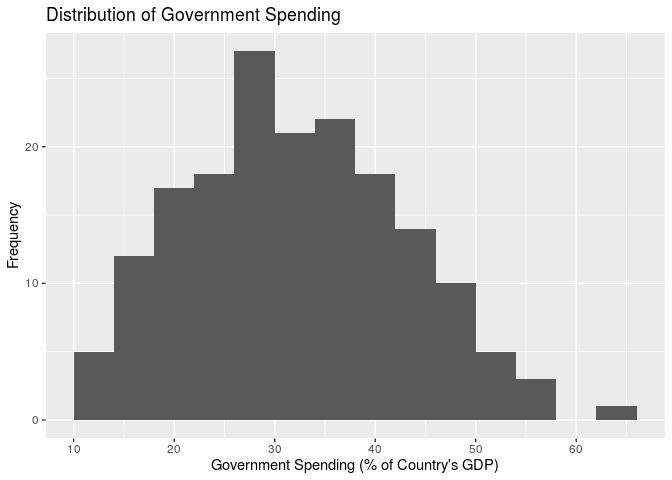
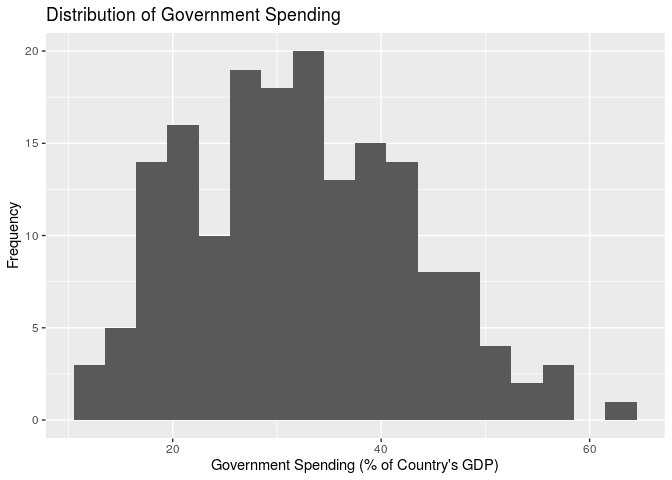
Finished EDA

diff --git a/01-proposal/proposal.md b/01-proposal/proposal.md
@@ -192,14 +192,16 @@ skim()
     ##      hist
     ##  ▂▅▇▆▅▅▂▂
 
-The distribution of tax burden is unimodal and only slightly right
-skewed. The mode is around 14-15%. In general, the tax burden across
-countries appear normally distributed. The mean tax burden is 22.19 and
-the standard deviation of the distribution is 10.17.
+`TaxBurden` represents the amount of tax paid by the citizens of a
+country as a proportion of the GDP of that country. The distribution of
+tax burden is unimodal and only slightly right skewed. The mode is
+around 14-15%. In general, the tax burden across countries appear
+normally distributed. The mean tax burden is 22.19 and the standard
+deviation of the distribution is 10.17.
 
 ``` r
 ggplot(data = economic_data, mapping = aes(x = GovSpending)) +
-  geom_histogram(binwidth = 4) + 
+  geom_histogram(binwidth = 3) + 
   labs(x = "Government Spending (% of Country's GDP)",
        y = "Frequency",
        title = "Distribution of Government Spending")
@@ -223,13 +225,15 @@ skim()
     ##      hist
     ##  ▂▇▇▇▇▃▁▁
 
-The distribution of government spending is generally symmmetric and
-unimodal. There are several outliers which have significantly higher
-government spending: with government spending either equal to or more
-than 100% of the country’s GDP. The mode of the distribution is around
-25%. Since there is minimal skewing, we report the mean and standard
-deviation. The mean government spending is 33.87 and the distribution
-has a standard deviation of 15.52.
+`GovSpending` represents the amount spent by the government as a
+percentage of the GDP of the country. The distribution of government
+spending is generally symmmetric and unimodal. There are several
+outliers which have significantly higher government spending: with
+government spending either equal to or more than 100% of the country’s
+GDP. The mode of the distribution is around 25%. Since there is minimal
+skewing, we report the mean and standard deviation. The mean government
+spending is 33.87 and the distribution has a standard deviation of
+15.52.
 
 ``` r
 ggplot(data = economic_data, mapping = aes(x = Population)) +
@@ -257,7 +261,8 @@ skim()
     ##      hist
     ##  ▇▁▁▁▁▁▁▁
 
-The distribution of population is unimodal and right-skewed.Because
+`Population` represents the number of individuals living in a country.
+The distribution of population is unimodal and right-skewed. Because
 there are two extreme outliers in population, we will plot another graph
 of population without these two outliers
 below.
@@ -293,7 +298,9 @@ skim()
 The distribution of population is unimodal and right-skewed. The mode of
 the distribution is around 1 million. Since the median and IQR are more
 robust to skewing, we report them instead as a measures of center and
-spread. The median is 9.15 and the IQR is 26.85.
+spread. The median is 9.15 and the IQR is 26.85. Additionally, when
+conducting our analysis, we may need to apply a log-transform to make
+the distribution of the variable more normal.
 
 ``` r
 ggplot(data = economic_data, mapping = aes(x = Unemployment)) +
@@ -319,10 +326,12 @@ skim()
     ##      variable missing complete   n mean   sd  p0 p25 p50 p75 p100     hist
     ##  Unemployment       0      173 173 7.27 5.67 0.1 3.7 5.5 9.3 27.3 ▆▇▅▂▁▁▁▁
 
-The distribution of unemployment is unimodal and right-skewed. The mode
-of the distribution is around 4-5%. Since the median and IQR are more
-robust to skewing, we report them instead as a measures of center and
-spread. The median is 5.7 and the IQR is 5.6.
+`Unemployment` represents the percantage of the workforce of a country
+that is currently not working. The distribution of unemployment is
+unimodal and right-skewed. The mode of the distribution is around 4-5%.
+Since the median and IQR are more robust to skewing, we report them
+instead as a measures of center and spread. The median is 5.7 and the
+IQR is 5.6.
 
 ``` r
 ggplot(data = economic_data, mapping = aes(x = Inflation)) +
@@ -363,74 +372,66 @@ skim()
     ##      hist
     ##  ▇▁▁▁▁▁▁▁
 
-The first distribution of inflation rates includes all outliers. Because
-of the size and resolution of the diagram, the distribution of most
-economies are not visible. THe second diagram shows the distribution of
-inflation rates without the outlier with more than 1000% inflation. The
-distribution of inflation rate is generally unimodal and right skewed.
-The mode of the distribution is around 2%. Given significant skewing, we
-report the median and IQR as measures of center and spread. The median
-inflation rate is 2.7% and the IQR is
-4%.
+`Inflation` represents the change in prices of goods and services in a
+year in the country. The first distribution of inflation rates includes
+all outliers. Because of the size and resolution of the diagram, the
+distribution of most economies are not visible. The second diagram shows
+the distribution of inflation rates without the outlier with more than
+1000% inflation. The distribution of inflation rate is generally
+unimodal and right skewed. The mode of the distribution is around 2%.
+Given significant skewing, we report the median and IQR as measures of
+center and spread. The median inflation rate is 2.7% and the IQR is 4%.
+Because of this skew, we may need to log-transform this variable as well
+to get its distribution to be more normal.
 
 ``` r
-aggregate(cbind(count = Region) ~ Region, data = economic_data, FUN = function(x){NROW(x)})
-```
+regional <- economic_data %>%
+  group_by(Region) %>%
+  tally() %>%
+  mutate(prop = n*100/nrow(economic_data))
 
-    ##                         Region count
-    ## 1                     Americas    31
-    ## 2                 Asia-Pacific    40
-    ## 3                       Europe    43
-    ## 4 Middle East and North Africa    14
-    ## 5           Sub-Saharan Africa    45
-
-``` r
-regional = data.frame("Region" = c("Americas","Asia-Pacific","Europe","Middle East and North Africa","Sub-Saharan Africa"), "share" = c(32, 43, 45, 18, 47), "prop"=c(17.4,23.2, 24.3, 9.7, 25.4))
-mycols <- c("#0073C2FF", "#EFC000FF", "#868686FF", "#CD534CFF", "#99D492")
-
-# Add label position
-regional <- regional %>%
-  arrange(desc(Region)) %>%
-  mutate(lab.ypos = cumsum(prop) - 0.5*prop)
 regional
 ```
 
-    ##                         Region share prop lab.ypos
-    ## 1           Sub-Saharan Africa    47 25.4    12.70
-    ## 2 Middle East and North Africa    18  9.7    30.25
-    ## 3                       Europe    45 24.3    47.25
-    ## 4                 Asia-Pacific    43 23.2    71.00
-    ## 5                     Americas    32 17.4    91.30
+    ## # A tibble: 5 x 3
+    ##   Region                           n  prop
+    ##   <chr>                        <int> <dbl>
+    ## 1 Americas                        31 17.9 
+    ## 2 Asia-Pacific                    40 23.1 
+    ## 3 Europe                          43 24.9 
+    ## 4 Middle East and North Africa    14  8.09
+    ## 5 Sub-Saharan Africa              45 26.0
 
 ``` r
-ggplot(mapping = aes(x = "", y = share, fill = Region), data = regional) +
+ggplot(mapping = aes(x = "", y = prop, fill = Region), data = regional) +
     geom_bar(stat = "identity", color = "white") +
     coord_polar("y", start = 0) +
-  geom_text(aes(y = lab.ypos, label = prop), color = "white") +
-    scale_fill_manual(values = mycols) +
     theme_void()
 ```
 
 ![](proposal_files/figure-gfm/Region-1.png)<!-- -->
 
-The piechart of region shows that there is a relatively equal
-representation of countries from different regions of the world. The
-Americas, Asia-Pacific, and Europe each represent around 25% of all the
-countries in the data. The smallest representation is from the Middle
-East and North Africa at 9.7%. We are not too concerned with the
-distribution because there are 195 countries in the world and our data
-has 185 countries. The difference in distribution across region is
-likely to be largely reflective of the actual geographical distribution
-of nation-states.
+`Region` represents the geographical continent/area that the country is
+situated in. The piechart of `Region` shows that there is a relatively
+equal representation of countries from different regions of the world.
+The Americas, Asia-Pacific, Sub-Saharan Africa, and Europe each
+represent around 25% of all the countries in the data. The smallest
+representation is from the Middle East and North Africa at 8.1%. We are
+not too concerned with the distribution because there are 195 countries
+in the world and our data has 173 countries. The difference in
+distribution across region is likely to be largely reflective of the
+actual geographical distribution of nation-states.
 
 ``` r
 ggplot(mapping = aes(x = GovInterference), data = economic_data) +
-geom_bar(fill = "cornflowerblue") +
-labs(title = "Bar Graph of Government Inteference in Economy", x  = "Levels of Government Interference", y = "Frequency")
+  geom_bar(fill = "cornflowerblue") +
+  labs(title = "Bar Graph of Government Inteference in Economy", x  = "Levels of Government Interference", y = "Frequency")
 ```
 
 ![](proposal_files/figure-gfm/Government%20Interference-1.png)<!-- -->
 
+`GovInterference` represents the amount of interference that the
+government has in the economy as determined by the World Economic Index.
 The distribution of government interference shows that most countries
 either have extensive or moderate government inteference. The mode of
 the distribution is moderate government interference. Economies with
@@ -439,9 +440,9 @@ around 10-15 countries. We do not report the center or spread here
 because government interference is a categorical variable.
 
 ``` r
-ggplot(mapping = aes(x = TariffRate), data = economic_data) +
-geom_histogram(fill = "cornflowerblue") +
-labs(title = "Histogram of Tariff Rate", x  = "Tariff Rate", y = "Frequency")
+ggplot(mapping = aes(x = TariffRate), data = economic_data) + 
+  geom_histogram(fill = "cornflowerblue") +
+  labs(title = "Histogram of Tariff Rate", x  = "Tariff Rate", y = "Frequency")
 ```
 
     ## `stat_bin()` using `bins = 30`. Pick better value with `binwidth`.
@@ -450,8 +451,8 @@ labs(title = "Histogram of Tariff Rate", x  = "Tariff Rate", y = "Frequency")
 
 ``` r
 economic_data %>%
-select(TariffRate) %>%
-skim()
+  select(TariffRate) %>%
+  skim()
 ```
 
     ## Skim summary statistics
@@ -462,16 +463,18 @@ skim()
     ##    variable missing complete   n mean  sd p0 p25 p50 p75 p100     hist
     ##  TariffRate       0      173 173 5.61 4.4  0   2 4.2 8.7 18.6 ▇▅▃▃▃▁▁▁
 
-The distribution of tariff rate is generally right skewed and unimodal.
-There are several outlier economies with 50% tariff rate such as Central
-African Republic and North Korea. The mode of the distribution is around
-2%. The median tariff rate is 4.3 and the interquartile range of the
-distribution is 6.7.
+`TariffRate` represents the average percentage tax on imports that the
+country has outstanding as of 2019. The distribution of tariff rate is
+generally right skewed and unimodal. There are several outlier economies
+with 50% tariff rate such as Central African Republic and North Korea.
+The mode of the distribution is around 2%. The median tariff rate is 4.3
+and the interquartile range of the distribution is 6.7. Because of this
+right-skew, log-transforming this variable might be necessary.
 
 ``` r
 ggplot(mapping = aes(x = IncomeTaxRate), data = economic_data) +
-geom_histogram(fill = "cornflowerblue") +
-labs(title = "Histogram of Income Tax Rate", x  = "Income Tax Rate", y = "Frequency")
+  geom_histogram(fill = "cornflowerblue") +
+  labs(title = "Histogram of Income Tax Rate", x  = "Income Tax Rate", y = "Frequency")
 ```
 
     ## `stat_bin()` using `bins = 30`. Pick better value with `binwidth`.
@@ -480,8 +483,8 @@ labs(title = "Histogram of Income Tax Rate", x  = "Income Tax Rate", y = "Freque
 
 ``` r
 economic_data %>%
-select(IncomeTaxRate) %>%
-skim()
+  select(IncomeTaxRate) %>%
+  skim()
 ```
 
     ## Skim summary statistics
@@ -494,13 +497,15 @@ skim()
     ##      hist
     ##  ▂▅▂▇▇▅▂▁
 
-The distribution of income tax rate is unimodal and generally symmetric.
-While its general shape resembles a normal distribution, there are
-several values of income tax rate which have particularly high frequency
-such as 10%, 25% and 34-35%. The mode of the distribution occurs at 35%.
-Since there is relatively minimal skewing, we report the mean and
-standard deviation as measures of center and spread. The mean income tax
-rate is 28.23 and the standard deviation of the distribution is 13.4.
+`IncomeTaxRate` represents the average tax rate applied to individuals
+on their incomes. The distribution of income tax rate is unimodal and
+generally symmetric. While its general shape resembles a normal
+distribution, there are several values of income tax rate which have
+particularly high frequency such as 10%, 25% and 34-35%. The mode of the
+distribution occurs at 35%. Since there is relatively minimal skewing,
+we report the mean and standard deviation as measures of center and
+spread. The mean income tax rate is 28.23 and the standard deviation of
+the distribution is 13.4.
 
 ``` r
 ggplot(mapping = aes(x = CorporateTaxRate), data = economic_data) +
@@ -528,11 +533,12 @@ skim()
     ##      hist
     ##  ▁▂▂▇▆▂▁▁
 
-The distribution of corporate tax rate is unimodal and only slightly
-right skewed. The mode of the distribution is around 28-30%. Since there
-is minimal skewing, we report the mean and the standard deviation as
-measures of center and spread. The mean corporate tax rate is 23.89% and
-the standard deviation is 8.88%.
+`CorporateTaxRate` represents the average tax rate applied to
+corporations on their revenues. The distribution of corporate tax rate
+is unimodal and only slightly right skewed. The mode of the distribution
+is around 28-30%. Since there is minimal skewing, we report the mean and
+the standard deviation as measures of center and spread. The mean
+corporate tax rate is 23.89% and the standard deviation is 8.88%.
 
 ``` r
 ggplot(data = economic_data, mapping = aes(x = PublicDebt)) +
@@ -560,75 +566,29 @@ skim()
     ##      hist
     ##  ▃▇▃▂▁▁▁▁
 
-The distribution of public debt is unimodal and right skewed. There are
-several outliers with public debt more than 175%. The mode of the
-distribution is around 30%. The median public debt is 49.4% and the
-interquartile range is
-35%.
+`PublicDebt` represents the debt of the country as a percentage of the
+country’s GDP. The distribution of public debt is unimodal and right
+skewed. There are several outliers with public debt more than 175%. The
+mode of the distribution is around 30%. The median public debt is 49.4%
+and the interquartile range is 35%.
+
+Finally, we can visualize paired scatter plots of the relationship
+between GDP and each of our predictor variables. This is shown below.
+Some of the plots provide no visual information as there are outliers
+that skew the visualization, but this will be corrected for later in our
+analysis.
 
 ``` r
-pairs((GDP) ~ TariffRate + Population + Unemployment + Inflation + PublicDebt, data=economic_data, lower.panel = NULL)
-```
-
-![](proposal_files/figure-gfm/scatterplot%20matrix%20GDP-1.png)<!-- -->
-
-``` r
-pairs(GDP ~ GovSpending + IncomeTaxRate + CorporateTaxRate + TaxBurden, data=economic_data, lower.panel = NULL)
-```
-
-![](proposal_files/figure-gfm/scatterplot%20matrix%20GDP-2.png)<!-- -->
-
-``` r
-temp <- economic_data %>%
-  filter(GDP<3000)
-
-pairs(GDP ~ TariffRate + Population + Unemployment + Inflation + PublicDebt, data=temp, lower.panel = NULL)
-```
-
-![](proposal_files/figure-gfm/scatterplot%20matrix%20GDP-3.png)<!-- -->
-
-``` r
-pairs(GDP ~ GovSpending + IncomeTaxRate + CorporateTaxRate + TaxBurden, data=temp, lower.panel = NULL)
-```
-
-![](proposal_files/figure-gfm/scatterplot%20matrix%20GDP-4.png)<!-- -->
-
-``` r
-pairs(GDPGrowth ~ TariffRate + Population + Unemployment + Inflation + PublicDebt, data=economic_data, lower.panel = NULL)
+pairs(GDP ~ TariffRate + Population + Unemployment + Inflation + PublicDebt, data=economic_data, lower.panel = NULL)
 ```
 
 ![](proposal_files/figure-gfm/scatterplot%20matrix%20GDP%20growth-1.png)<!-- -->
 
 ``` r
-pairs(GDPGrowth ~ GovSpending + IncomeTaxRate + CorporateTaxRate + TaxBurden, data=economic_data, lower.panel = NULL)
+pairs(GDP ~ GovSpending + IncomeTaxRate + CorporateTaxRate + TaxBurden, data=economic_data, lower.panel = NULL)
 ```
 
 ![](proposal_files/figure-gfm/scatterplot%20matrix%20GDP%20growth-2.png)<!-- -->
-
-``` r
-temp2 <- economic_data %>%
-  filter(GDPGrowth < 10, -10< GDPGrowth)
-
-pairs(GDPGrowth ~ TariffRate + Population + Unemployment + Inflation + PublicDebt, data=temp2, lower.panel = NULL)
-```
-
-![](proposal_files/figure-gfm/scatterplot%20matrix%20GDP%20growth-3.png)<!-- -->
-
-``` r
-pairs(GDPGrowth ~ GovSpending + IncomeTaxRate + CorporateTaxRate + TaxBurden, data=temp2, lower.panel = NULL)
-```
-
-![](proposal_files/figure-gfm/scatterplot%20matrix%20GDP%20growth-4.png)<!-- -->
-
-``` r
-ggplot(data = temp, mapping = aes(x = TaxBurden, y = GDP)) +
-  geom_point() + 
-  labs(x = "Tax Burden (% of Country's GDP)",
-       y = "Frequency",
-       title = "Distribution of Tax Burden")
-```
-
-![](proposal_files/figure-gfm/scatterplot%20matrix%20GDP%20growth-5.png)<!-- -->
 
 ## Section 3. Regression Analysis Plan
 
